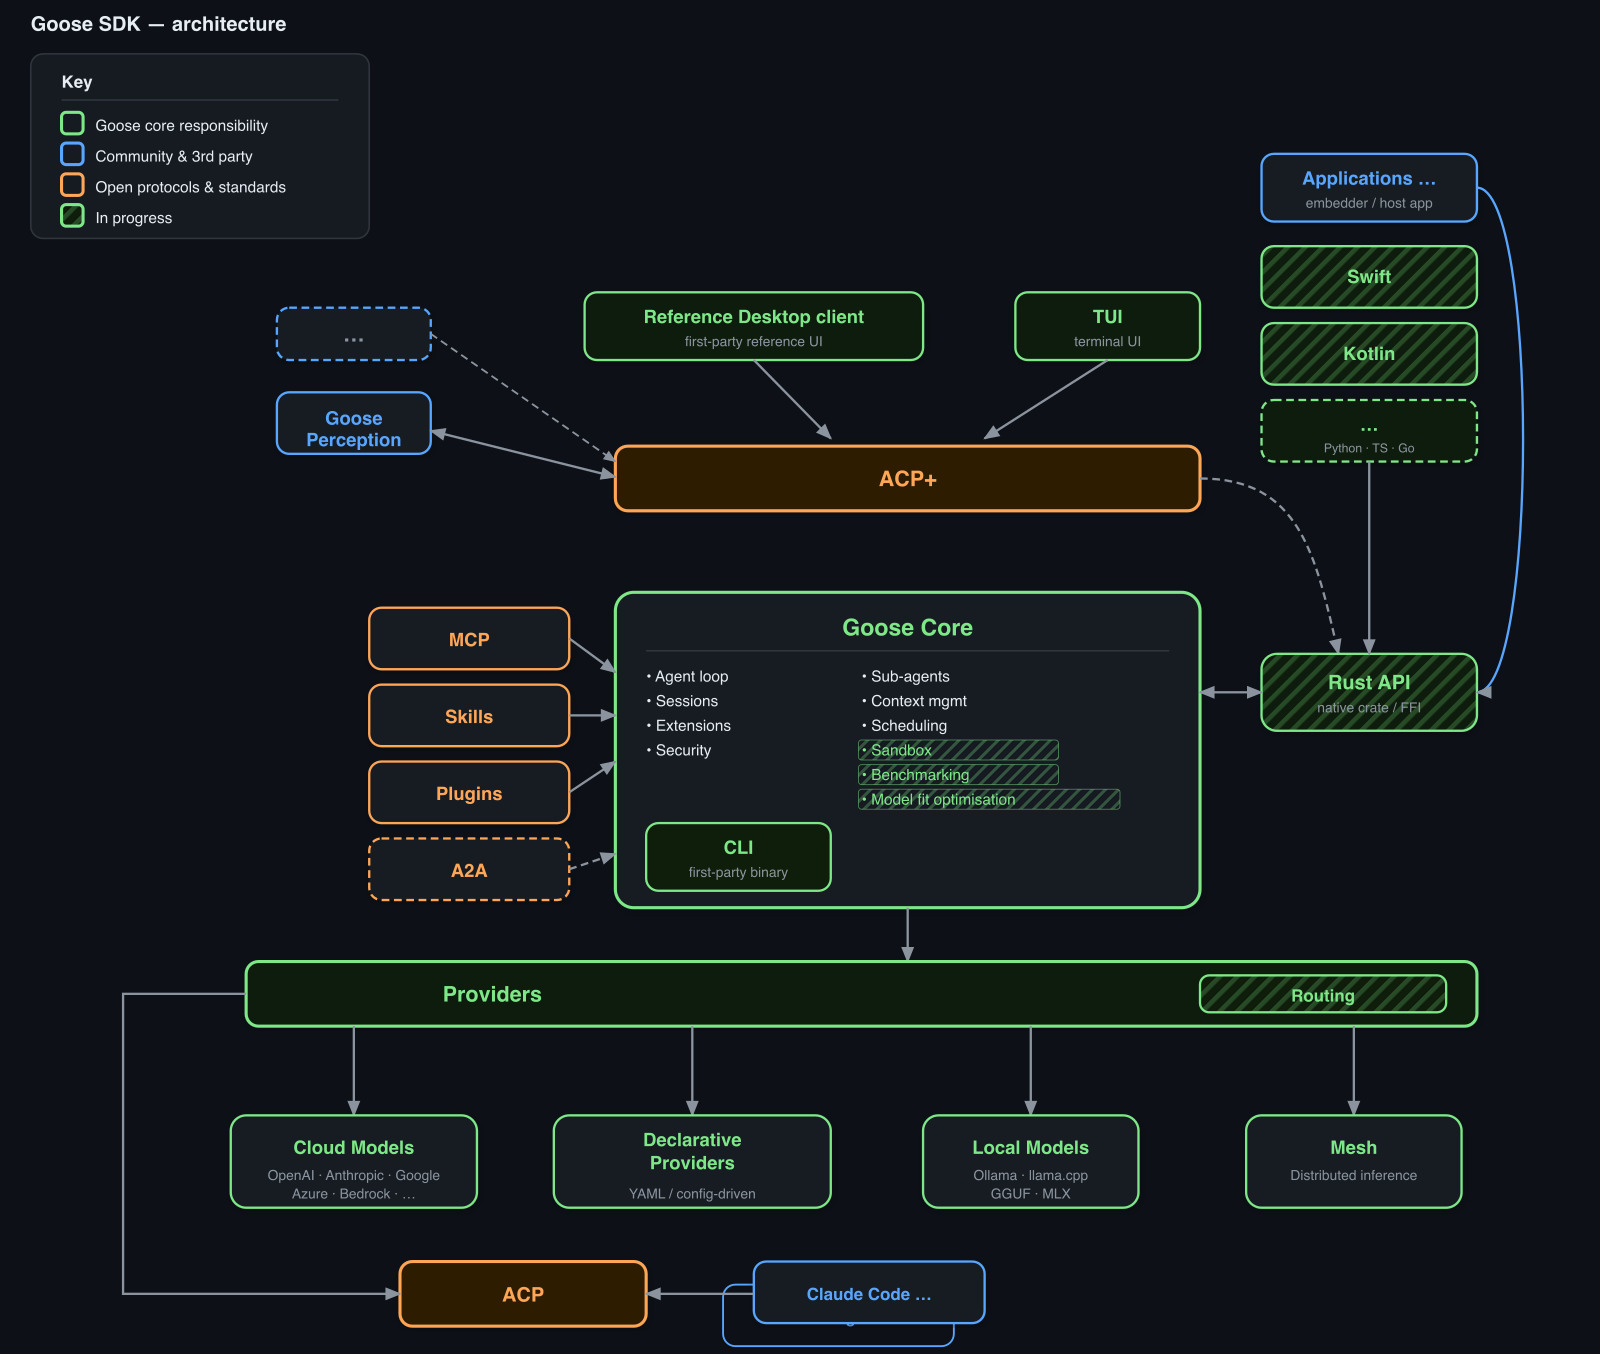
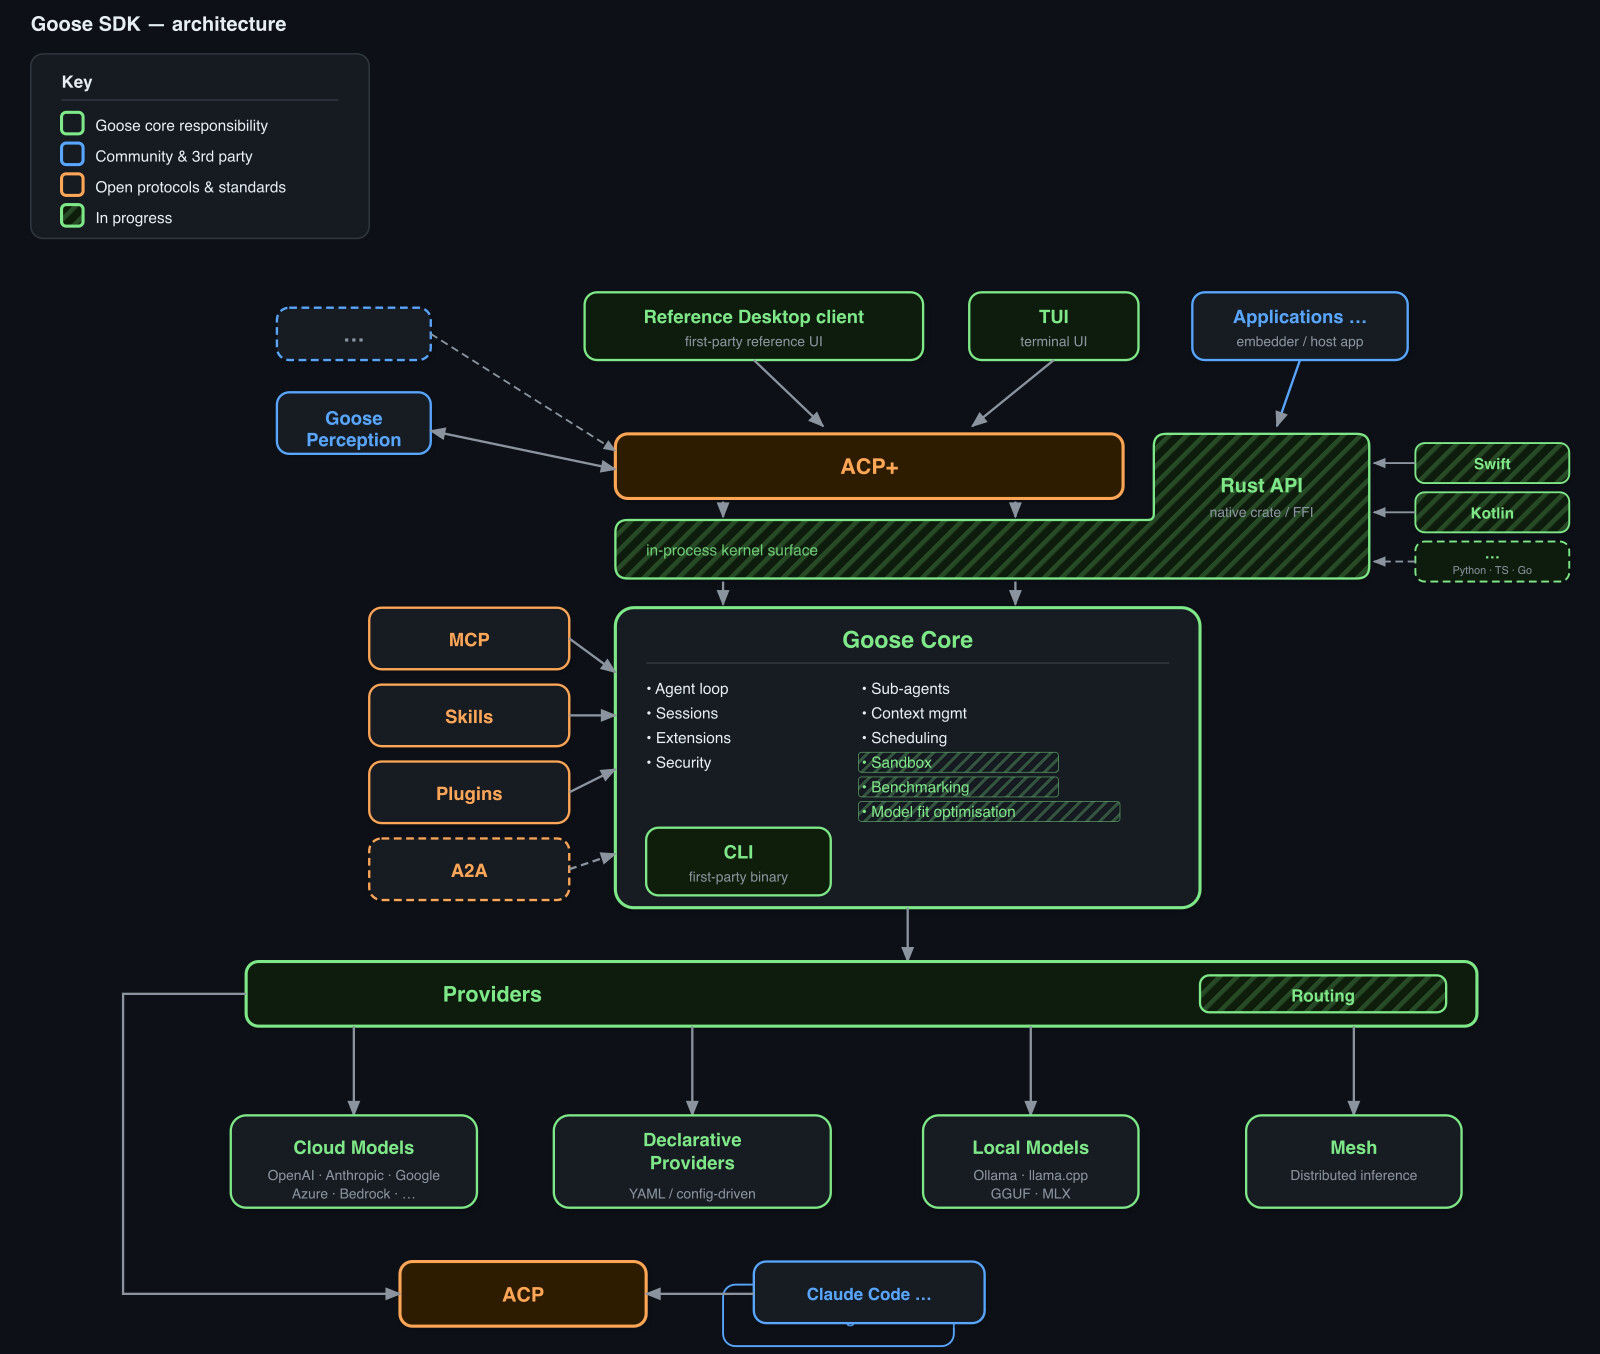
first cut

Changed region(s): [[0.2812, 0.1241, 1.0, 0.6824], [0.75, 0.4653, 0.9375, 0.5583]]

diff --git a/goose-sdk.html b/goose-sdk.html
@@ -593,7 +593,7 @@
       <div class="plate">
         <img src="goose-sdk.svg" alt="Goose SDK architecture diagram">
       </div>
-      <p class="plate-caption">Frontends connect via ACP+. A Rust API and language bindings open the kernel of the agent; Sprout shows what a third-party app looks like on top. Striped boxes are in flight.</p>
+      <p class="plate-caption">Frontends connect via ACP+, which itself rides on the Rust API — an L-shaped layer that is both the foundation under ACP+ and a peer surface for in-process embedding. Swift, Kotlin and friends are thin bindings off its side. Striped boxes are in flight.</p>
       </div>
       <div class="footline"><span class="folio">iii.</span><span>Anatomy</span><span class="marg">03 / 14</span></div>
     </section>